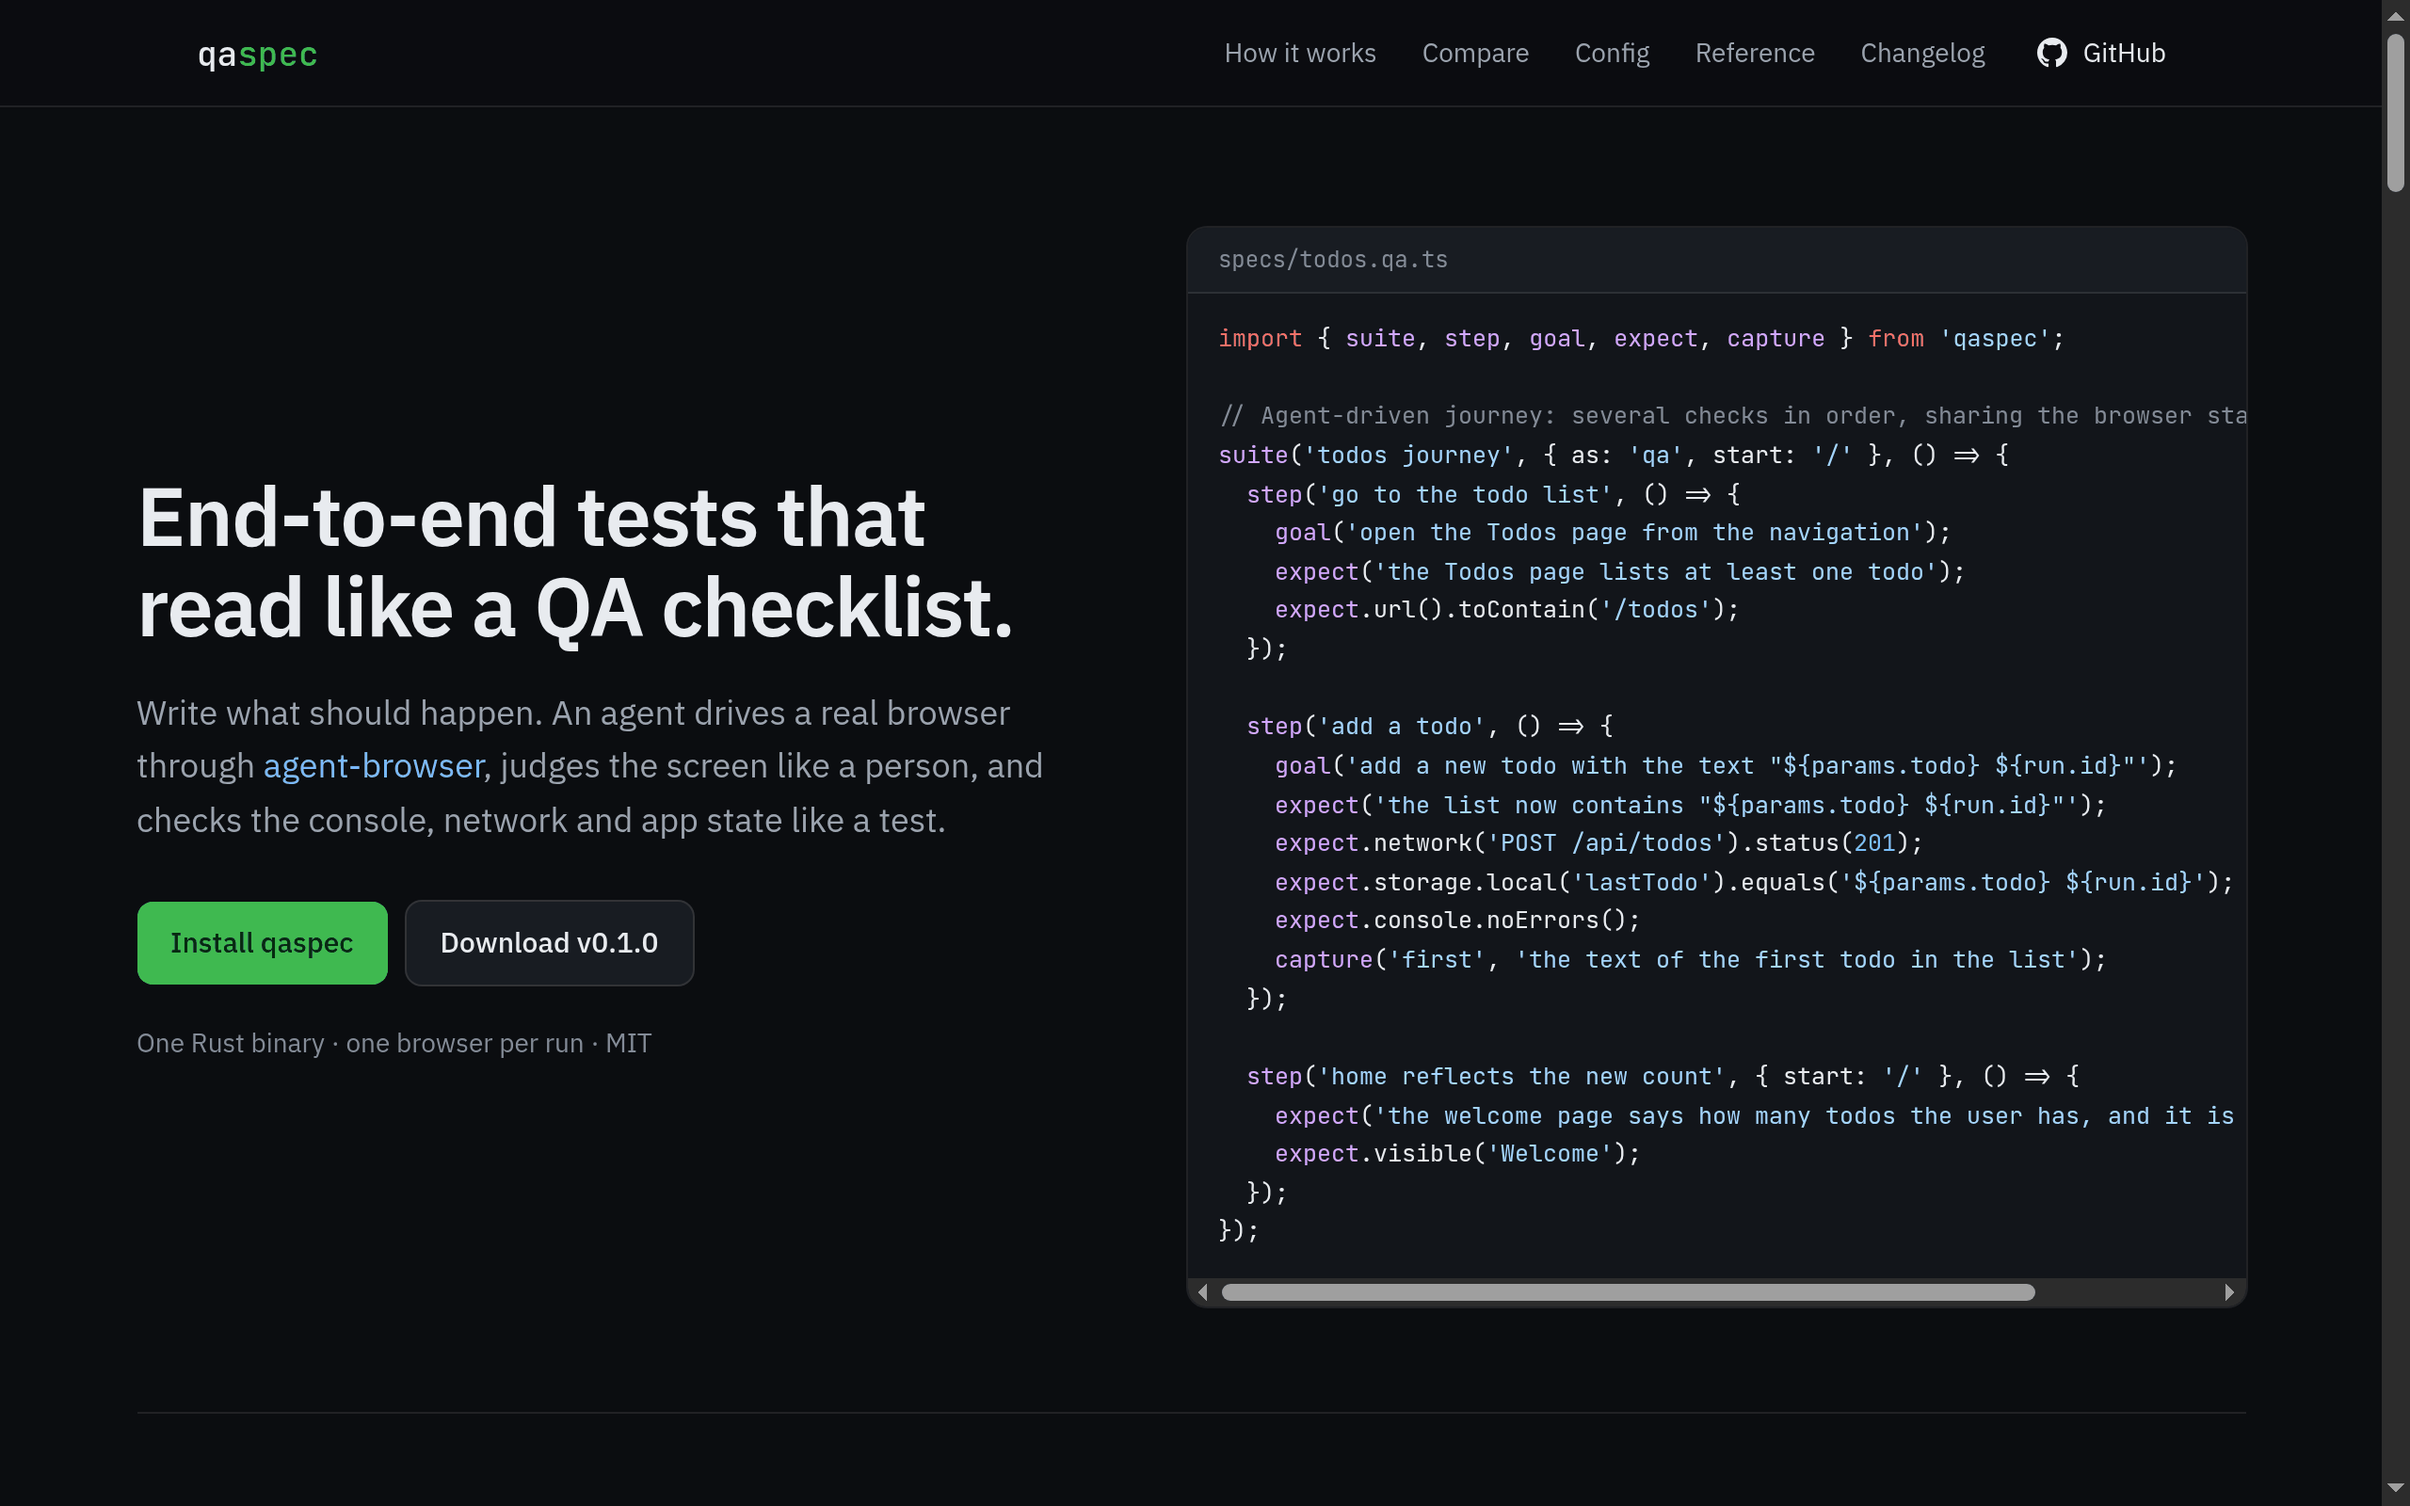
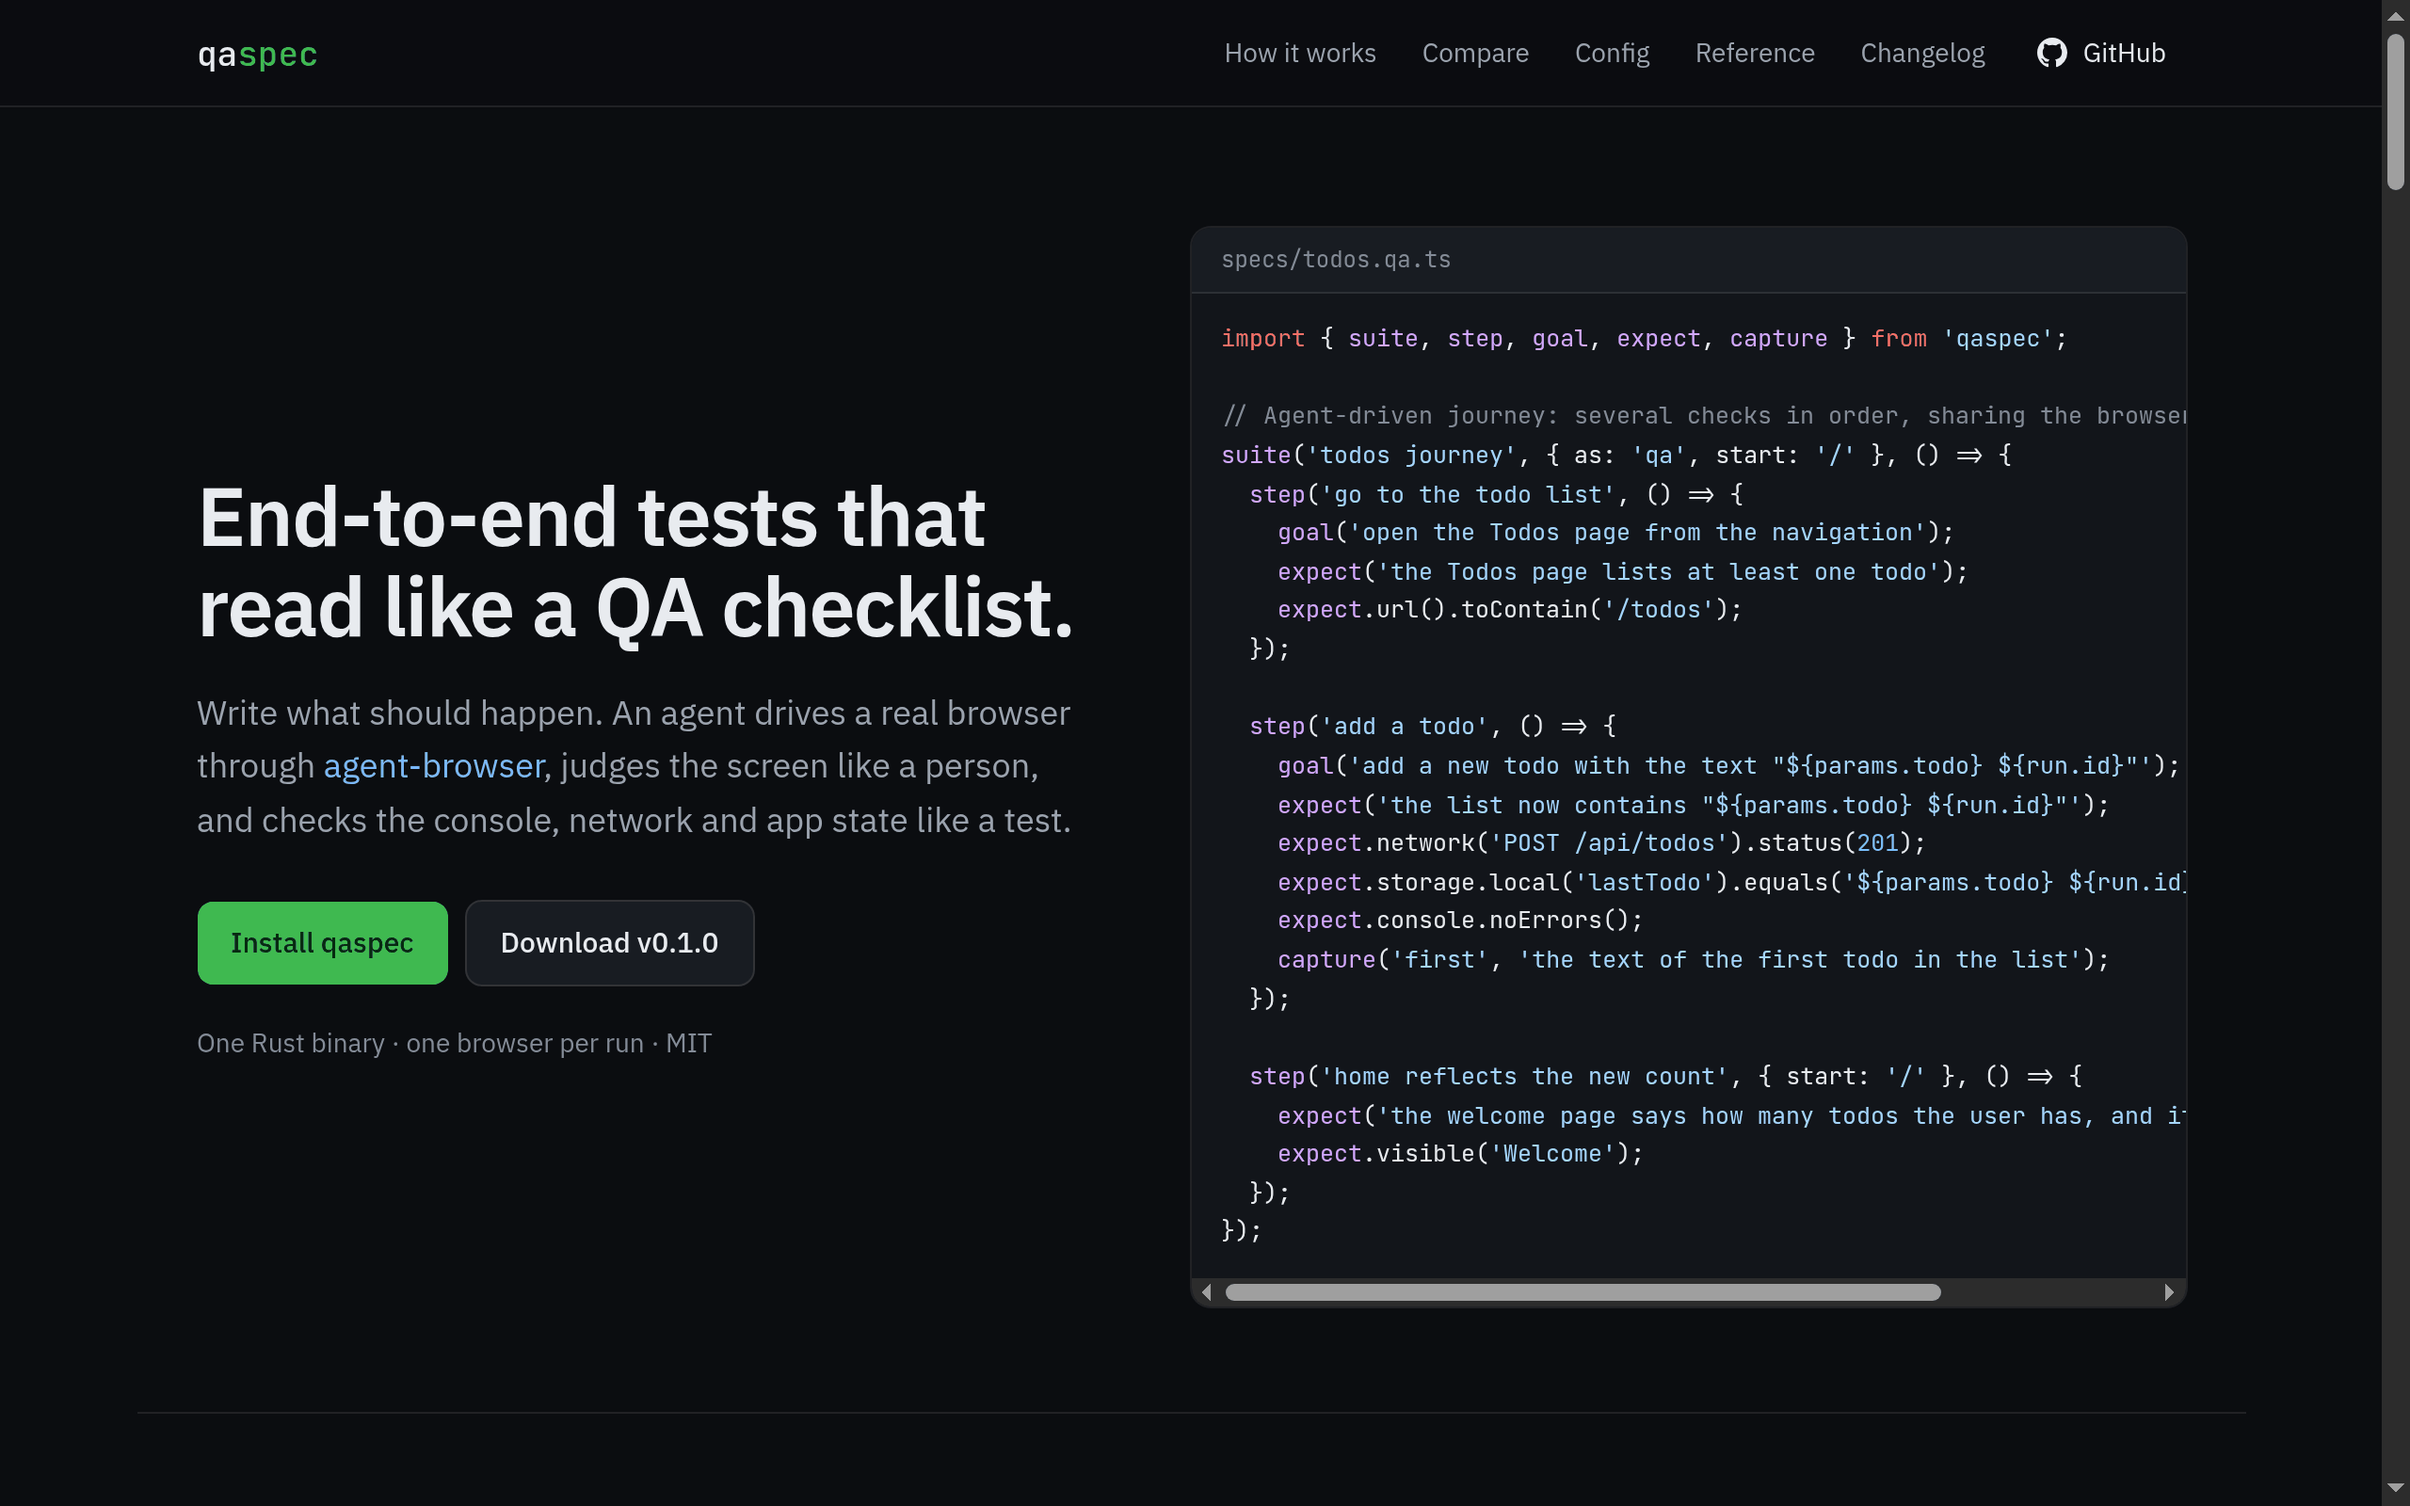
site: restore side padding on mobile
Sections set 'padding: 56px 0', which overrode the .wrap gutter, so content touched the
screen edges below 768px. Use padding-block so the 20px/32px gutters apply.

diff --git a/site/src/App.svelte b/site/src/App.svelte
@@ -227,7 +227,7 @@
   .gh { display: inline-flex; align-items: center; gap: 8px; color: var(--text); }
   .burger { display: none; }
 
-  section { padding: 56px 0; border-top: 1px solid var(--border); }
+  section { padding-block: 56px; border-top: 1px solid var(--border); }
   h2 { font-size: 26px; line-height: 1.25; font-weight: 600; letter-spacing: -0.01em; margin: 0 0 8px; }
   h3 { font-size: 16px; font-weight: 500; margin: 0; }
   .sub { color: var(--text-2); margin: 0 0 28px; max-width: 70ch; }
@@ -302,7 +302,7 @@
     .gh span { display: none; }
     .gh { width: 44px; height: 44px; justify-content: center; padding: 0; }
     .burger { display: inline-flex; align-items: center; justify-content: center; width: 44px; height: 44px; border: 0; border-radius: var(--r-sm); background: transparent; color: var(--text); cursor: pointer; }
-    section { padding: 40px 0; }
+    section { padding-block: 40px; }
     h1 { font-size: 32px; }
     h2 { font-size: 22px; }
     .lead { font-size: 16px; }

diff --git a/CHANGELOG.md b/CHANGELOG.md
@@ -15,7 +15,7 @@ The format follows [Keep a Changelog](https://keepachangelog.com/en/1.1.0/) and 
 - Website redesign: a neutral palette with four surface levels, one green accent for the primary action
   and passing states, and text colors that meet WCAG AA on every surface. IBM Plex Sans and JetBrains
   Mono are self-hosted. Decorative cards and the window-chrome colors are gone.
-- Mobile: a menu button, 44px touch targets, no horizontal scroll from 375px up, tables that become
+- Mobile: 20px page gutters (sections had lost their side padding), a menu button, 44px touch targets, no horizontal scroll from 375px up, tables that become
   stacked rows, and a sticky "qaspec vs" switch that compares one tool at a time.
 - New "How it compares" tables (writing tests, what a check can see, running them) against scripted
   E2E, e2e by TesterArmy and agent-browser alone, on the website and in the README.
